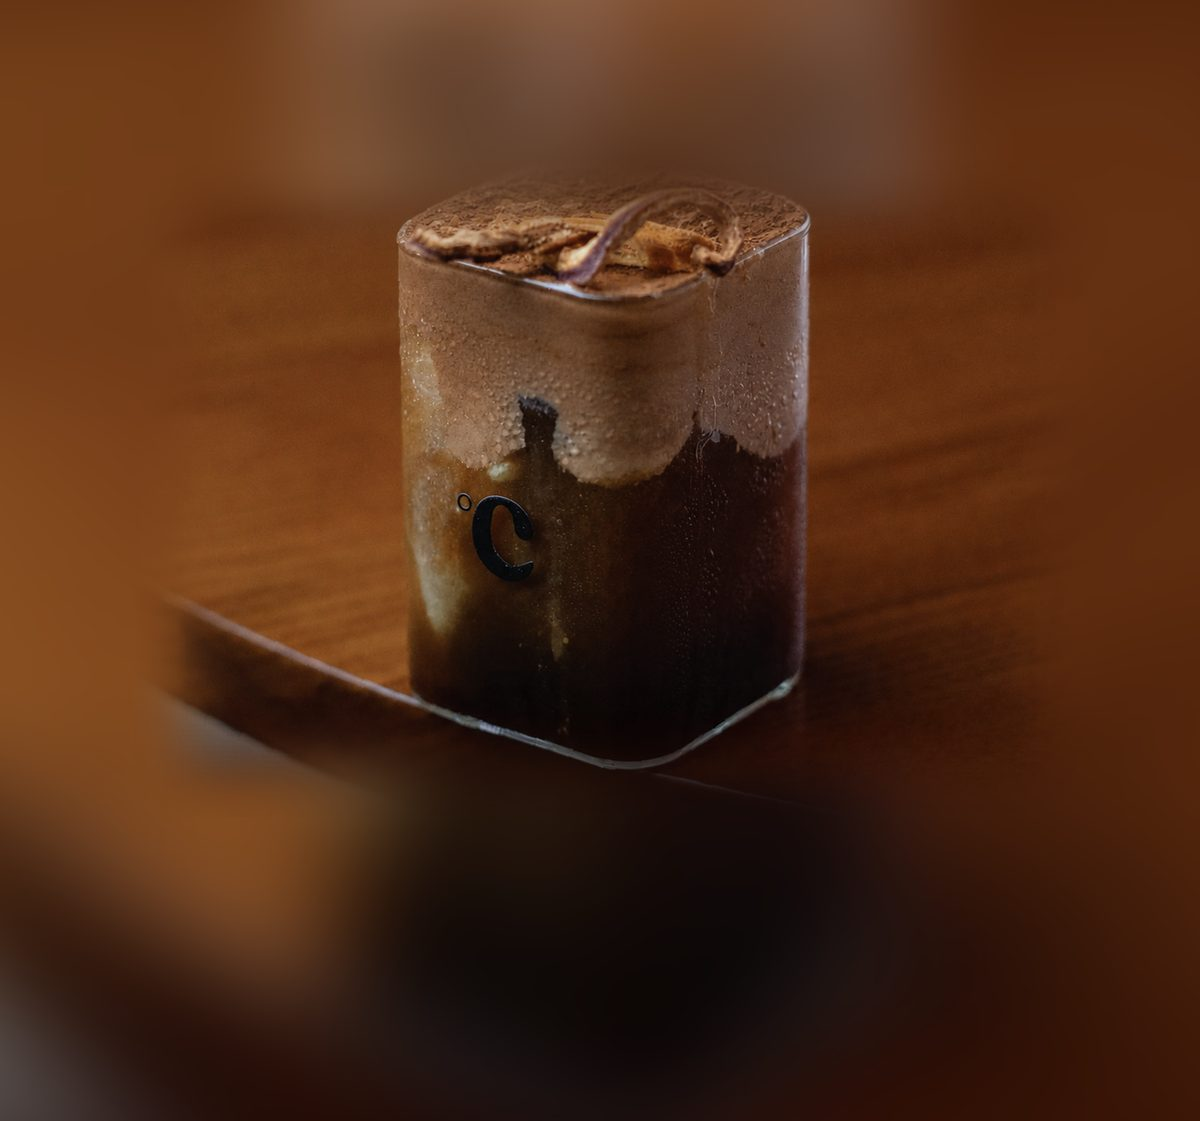
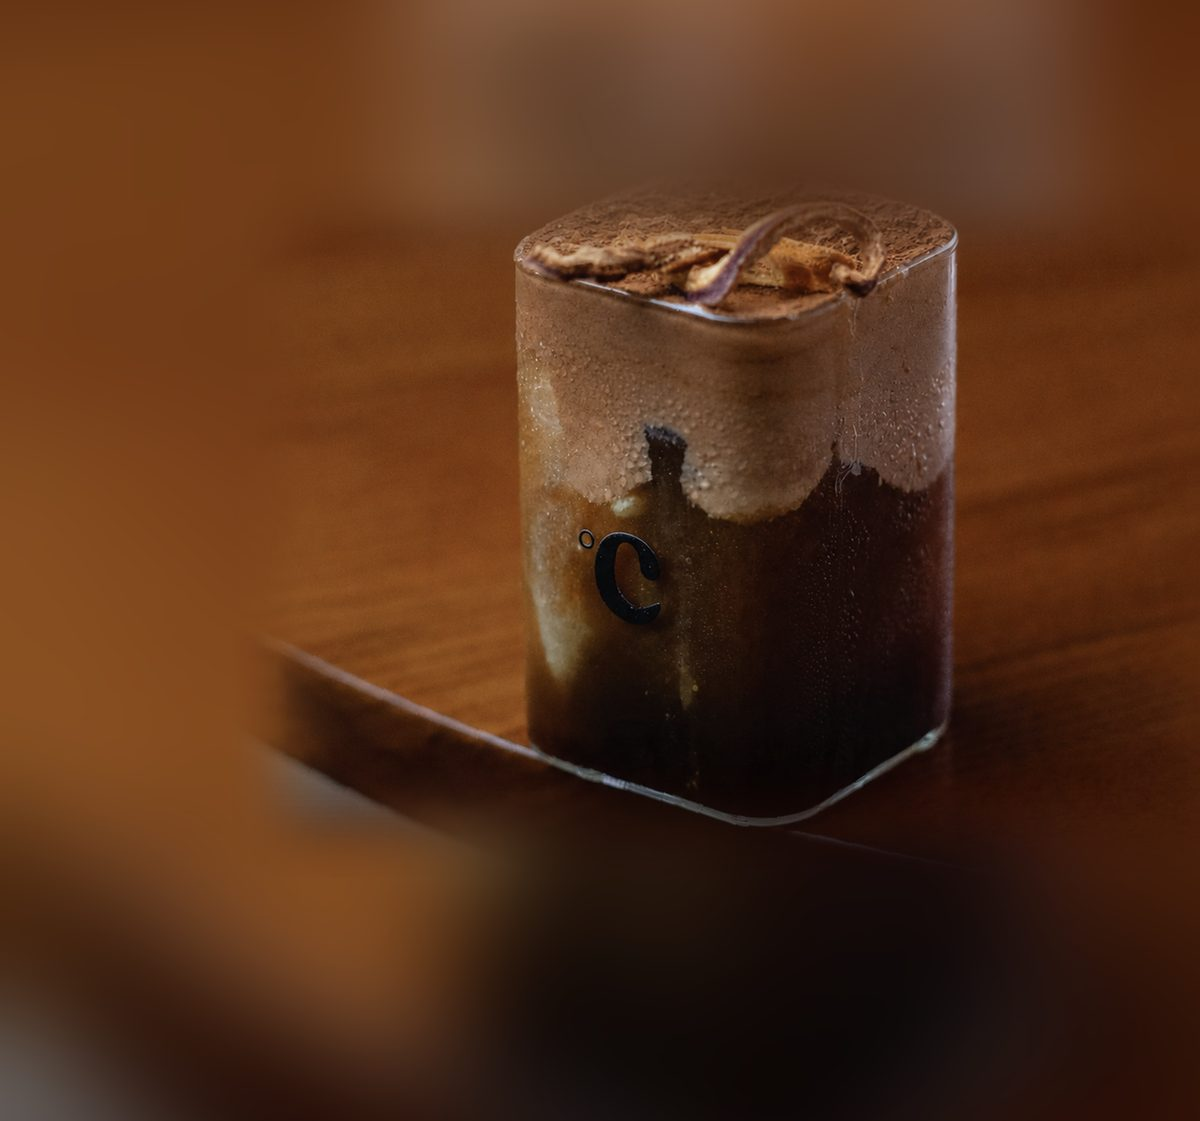
docs: match the home poster to the house layout
The other home posters -- Smoked Duck Aglio Olio, Nasi Lemak and the rest --
put their copy mid-left and vertically centred over the photograph, with the
dish to the right. This one was bottom-aligned, which is the campaign layout
the splash and social pieces use, not the one the carousel already has.

So the copy moves to a left column, centred vertically: kicker, two-line
title, one supporting line, brand. The scrim runs left-to-right instead of
bottom-up, and the hero is recut with the glass biased right (~61% across)
rather than centred, which is what leaves that column clear. make-heroes.py
grows an optional x_bias for exactly that; omitted, it still centres.

Claude-Session: https://claude.ai/code/session_01Gx9rk3QaLJo6PzQNAAvZBH

diff --git a/docs/design/assets/choc-blanc/canvas/Main.dc.html b/docs/design/assets/choc-blanc/canvas/Main.dc.html
@@ -15,49 +15,35 @@
   </style>
 </helmet>
 
-<!-- App home carousel, 1.07:1. Full-bleed photograph: the table runs edge to
-     edge and the copy sits ON it under a gradient, rather than in a separate
-     block of flat colour. hero-home.jpg is cut at exactly this aspect, so
-     object-fit: cover crops nothing and the glass (y 166..754) is never
-     clipped. The scrims stop short of opaque so the wood still reads through
-     the copy. -->
+<!-- App home carousel, 1.07:1, following the house poster layout rather than
+     the campaign one: the copy sits MID-LEFT and vertically centred over the
+     photograph, with the product to the right - the same arrangement the
+     existing home posters use (Smoked Duck Aglio Olio, Nasi Lemak, etc).
+     hero-home.jpg is cut with the glass biased right (~61% across) to leave
+     that column clear, and the scrim runs left-to-right instead of bottom-up. -->
 <div style="width: 1200px; height: 1121px; position: relative; overflow: hidden; background: #160800;">
 
   <img src="hero-home.jpg" alt="Choc Blanc iced espresso with whipped dark chocolate cream" style="position: absolute; inset: 0; width: 100%; height: 100%; object-fit: cover; display: block;">
 
-  <!-- legibility scrims, both stopping short of solid so the table shows through -->
-  <div style="position: absolute; inset: 0 0 auto 0; height: 190px; background: linear-gradient(180deg, rgba(22,8,0,0.72) 0%, rgba(22,8,0,0.22) 60%, rgba(22,8,0,0) 100%);"></div>
-  <div style="position: absolute; inset: auto 0 0 0; height: 560px; background: linear-gradient(180deg, rgba(22,8,0,0) 0%, rgba(22,8,0,0.42) 34%, rgba(22,8,0,0.82) 66%, rgba(22,8,0,0.93) 100%);"></div>
+  <!-- left-to-right scrim so the copy reads over the table without hiding it -->
+  <div style="position: absolute; inset: 0; background: linear-gradient(90deg, rgba(22,8,0,0.93) 0%, rgba(22,8,0,0.86) 34%, rgba(22,8,0,0.55) 58%, rgba(22,8,0,0.12) 78%, rgba(22,8,0,0) 100%);"></div>
+  <div style="position: absolute; inset: 0 0 auto 0; height: 150px; background: linear-gradient(180deg, rgba(22,8,0,0.55) 0%, rgba(22,8,0,0) 100%);"></div>
 
-  <div style="position: absolute; inset: 0; padding: 40px 48px 44px 48px; display: flex; flex-direction: column; justify-content: space-between;">
+  <div style="position: absolute; inset: 0; padding: 44px 48px; display: flex; flex-direction: column; justify-content: center;">
+    <div style="max-width: 620px; display: flex; flex-direction: column; gap: 20px;">
 
-    <div style="display: flex; justify-content: space-between; align-items: flex-start; gap: 24px;">
-      <div style="font-weight: 700; font-size: 44px; line-height: 1; color: #F5F3F0; letter-spacing: -0.01em;">&deg;C</div>
-      <div style="display: flex; flex-direction: column; align-items: flex-end; gap: 7px;">
+      <div style="display: flex; flex-direction: column; gap: 8px;">
         <div style="font-weight: 700; font-size: 15px; letter-spacing: 0.30em; color: #FBBF24; text-transform: uppercase;">Merdeka Menu</div>
         <div style="font-weight: 500; font-size: 13px; letter-spacing: 0.16em; color: rgba(245,243,240,0.72); text-transform: uppercase;">31 Ogos &ndash; 30 Sept 2026</div>
       </div>
+
+      <h1 style="margin: 0; font-weight: 700; font-size: 104px; line-height: 0.94; letter-spacing: -0.025em; color: #F5F3F0;">Choc<br>Blanc</h1>
+
+      <p style="margin: 0; font-weight: 500; font-size: 29px; line-height: 1.25; color: #E0A47C; text-wrap: pretty;">Now capped with dark chocolate cream.</p>
+
+      <div style="margin-top: 6px; font-weight: 700; font-size: 26px; line-height: 1; color: #F5F3F0; letter-spacing: -0.01em;">&deg;Celsius Coffee</div>
+
     </div>
-
-    <div style="display: flex; flex-direction: column; gap: 18px;">
-      <div>
-        <span style="display: inline-block; background: #A64B2C; color: #F5F3F0; font-weight: 700; font-size: 14px; letter-spacing: 0.22em; text-transform: uppercase; padding: 10px 18px; border-radius: 4px;">New on the menu</span>
-      </div>
-      <h1 style="margin: 0; font-weight: 700; font-size: 112px; line-height: 0.92; letter-spacing: -0.025em; color: #F5F3F0;">Choc Blanc</h1>
-      <p style="margin: 0; font-weight: 500; font-size: 30px; line-height: 1.25; color: #E0A47C; text-wrap: pretty;">Now capped with dark chocolate cream.</p>
-
-      <div style="margin-top: 12px; display: flex; flex-direction: column; gap: 14px;">
-        <div style="height: 1px; background: rgba(245,243,240,0.16);"></div>
-        <div style="display: flex; justify-content: space-between; align-items: flex-end; gap: 24px;">
-          <div style="display: flex; flex-direction: column; gap: 9px;">
-            <div style="font-weight: 500; font-size: 15px; letter-spacing: 0.22em; color: #C4703F; text-transform: uppercase;">Selamat Hari Merdeka ke-69</div>
-            <div style="font-weight: 700; font-size: 30px; line-height: 1; color: #F5F3F0; letter-spacing: -0.01em;">&deg;Celsius Coffee</div>
-          </div>
-          <div style="font-weight: 500; font-size: 13px; letter-spacing: 0.14em; color: rgba(245,243,240,0.55); text-transform: uppercase; text-align: right;">Shah Alam &middot; Conezion<br>Tamarind</div>
-        </div>
-      </div>
-    </div>
-
   </div>
 </div>
 </x-dc>

diff --git a/docs/design/assets/choc-blanc/canvas/make-heroes.py b/docs/design/assets/choc-blanc/canvas/make-heroes.py
@@ -41,9 +41,14 @@ gcx = (g[0] + g[2]) // 2
 
 OUT = os.path.dirname(os.path.abspath(__file__))
 # name -> (artboard size, window height, headroom above the glass in window px)
+# The home carousel follows the house poster layout: copy sits mid-left over the
+# photo, so the glass has to sit RIGHT of centre rather than dead centre. A
+# shorter window leaves horizontal slack in the plate to push it across; x_bias
+# 0.0 means "window hard against the left of the plate", which puts the glass as
+# far right as the plate allows (~61% across).
 SURFACES = {
     # in-app surfaces
-    "hero-home.jpg":   ((1200, 1121), 2900, 430),
+    "hero-home.jpg":   ((1200, 1121), 2700, 430, 0.0),
     "hero-splash.jpg": ((1080, 2340), 3300, 500),
     "hero-pos.jpg":    ((920, 1200),  3000, 450),
     # social
@@ -52,9 +57,12 @@ SURFACES = {
     "hero-ig-square.jpg": ((1080, 1080), 2600, 450),
 }
 
-for name, (out, H, head) in SURFACES.items():
+for name, spec in SURFACES.items():
+    out, H, head = spec[0], spec[1], spec[2]
+    x_bias = spec[3] if len(spec) > 3 else None   # None = centre the glass
     W  = round(H * out[0] / out[1])
-    x0, y0 = gcx - W // 2, g[1] - head
+    x0 = gcx - W // 2 if x_bias is None else round(x_bias * (PW - W))
+    y0 = g[1] - head
     assert 0 <= x0 and x0 + W <= PW, (name, "x", x0, W)
     assert 0 <= y0 and y0 + H <= PH, (name, "y", y0, H)
     assert x0 < g[0] and g[2] < x0 + W, (name, "glass clipped horizontally")
